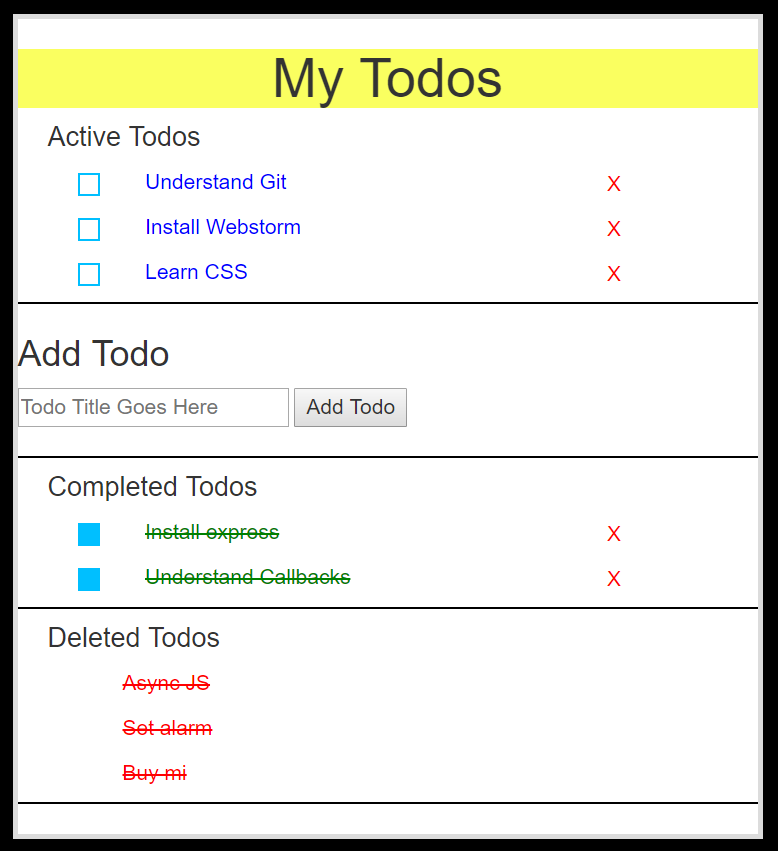
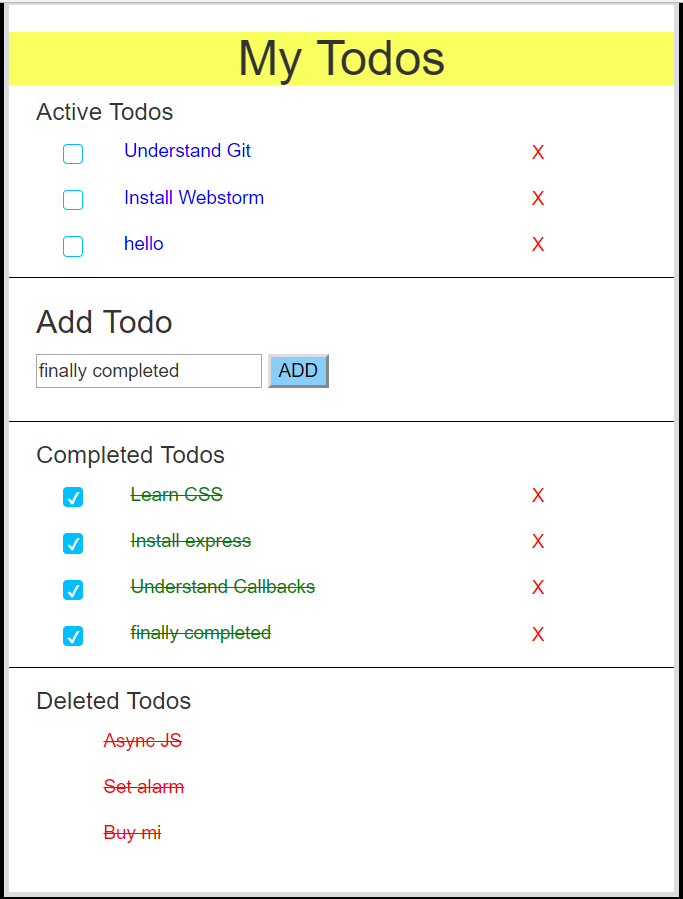
checkbox added for complete

diff --git a/public/styles.css b/public/styles.css
@@ -1,11 +1,11 @@
 .breathVertical {
-    margin-top:5px;
-    margin-bottom:5px;
+    margin-top:10px;
+    margin-bottom:10px;
 }
 
 .breathHorizontal {
-    margin-left:5px;
-    margin-right:5px;
+    margin-left:10px;
+    margin-right:10px;
 }
 
 #title{
@@ -32,29 +32,48 @@ input[type=checkbox].check_active{
     border: 1px solid deepskyblue;
     margin-right: 30px;
     float: left;
+    border-radius: 3px;
 }
 
-input[type=checkbox].check_complete{
+/*input[type=checkbox].check_complete{*/
+    /*-webkit-appearance: none;*/
+    /*width: 15px;*/
+    /*height: 15px;*/
+    /*!*border: 1px solid deepskyblue;*!*/
+    /*background-color: deepskyblue;*/
+    /*margin-right: 30px;*/
+    /*float: left;*/
+    /*border-radius: 3px;*/
+/*}*/
+
+
+.regular-checkbox {
     -webkit-appearance: none;
     width: 15px;
     height: 15px;
-    background-color: deepskyblue;
     margin-right: 30px;
     float: left;
+    background-color: deepskyblue;
+    border-radius: 3px;
+    display: block;
+    position: relative;
 }
 
-input[type=checkbox].checkbox:checked {
-    background-color: #1e90ff;
+.regular-checkbox:checked {
+    background-color: deepskyblue;
 }
 
-input[type=checkbox].check_complete:checked:after{
-    /*background-color: white;*/
+.regular-checkbox:checked:after {
     content: '\2714';
-    font-size: 15px;
+    font-size: 12px;
     position: absolute;
     top: 0px;
     left: 3px;
     color: white;
+}
+
+.completed-text{
+    margin-left: 50px;
 }
 
 button.delete_button{
@@ -79,10 +98,20 @@ div.todoStatusACTIVE {
 }
 
 #add_todos{
-    border-bottom: 1px solid black;
+    /*border-bottom: 1px solid black;*/
+    margin-left: 20px;
+    margin-right: 80px;
+    padding-bottom: 5px;
+}
+
+#add_todo_button{
+    color: black;
+    background-color: lightskyblue;
 }
 
 #complete_box{
+    border-top: 1px solid black;
+    padding-top: 5px;
     padding-left: 20px;
     border-bottom: 1px solid black;
 }
@@ -90,18 +119,15 @@ div.todoStatusACTIVE {
 div.todoStatusCOMPLETE{
     color : green;
     text-decoration : line-through;
-
     display: block;
-    /*color : blue;*/
     margin-left: 20px;
     margin-right: 80px;
     padding-bottom: 5px;
-
 }
 
 #delete_box{
+    padding-top: 5px;
     padding-left: 20px;
-    border-bottom: 1px solid black;
 }
 
 div.todoStatusDELETED {

diff --git a/public/script.js b/public/script.js
@@ -66,17 +66,24 @@ function createTodoElement(id, todo_object){
         var active_checkbox = document.createElement("input");
         active_checkbox.type = "checkbox";
         active_checkbox.setAttribute("onchange","activateTodoAJAX("+id+")");
-        active_checkbox.setAttribute("checked","");
-        active_checkbox.setAttribute("class","check_complete");
+        active_checkbox.setAttribute("checked","checked");
+        active_checkbox.setAttribute("class","regular-checkbox");
         todo_element.appendChild(active_checkbox);
 
-        todo_element.innerHTML += todo_object.title;
+        var completed_text = document.createElement("div");
+        completed_text.innerHTML=todo_object.title;
+        completed_text.setAttribute("class", "completed-text");
+
+        // todo_element.innerHTML += todo_object.title;
 
         var delete_button = document.createElement("button");
         delete_button.innerText = "X";
+        delete_button.setAttribute("class","btn btn-primary");
         delete_button.setAttribute("onclick", "deleteTodoAJAX("+id+")");
         delete_button.setAttribute("class", "breathHorizontal delete_button");
-        todo_element.appendChild(delete_button);
+        completed_text.appendChild(delete_button)
+        todo_element.appendChild(completed_text);
+        // todo_element.appendChild(delete_button);
     }
 
     if (todo_object.status == "DELETED"){

diff --git a/public/index.html b/public/index.html
@@ -19,11 +19,10 @@
 
 </div>
 
-
 <div id="add_todos">
     <h3>Add Todo</h3>
     <input type="text" id="new_todo_input" placeholder="Todo Title Goes Here"/>
-    <input type="button" value="Add Todo" onclick="addTodoAJAX()"/>
+    <input type="button" id="add_todo_button" value="ADD" onclick="addTodoAJAX()"/>
     <br> <br>
 </div>
 
